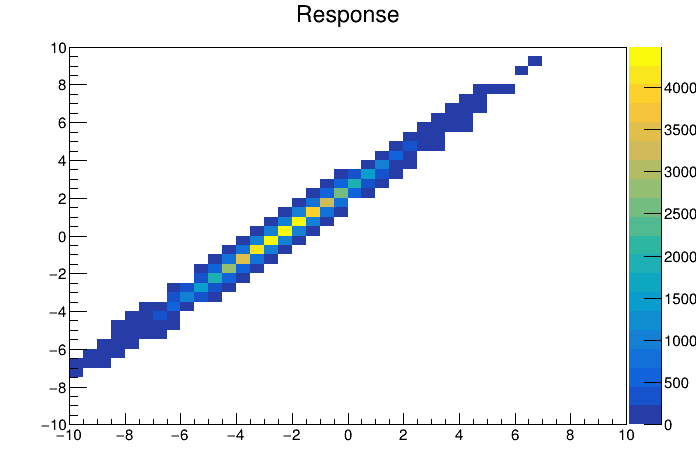
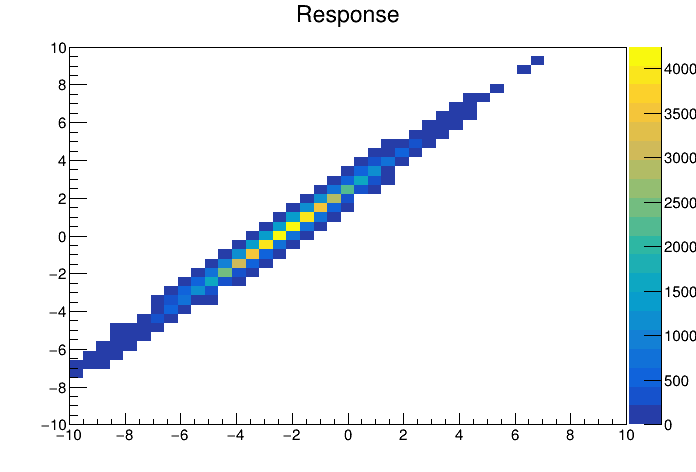
Added option for binning choice in generator.

diff --git a/studies/generator/generator.py b/studies/generator/generator.py
@@ -32,7 +32,7 @@ r.gROOT.SetBatch(True)
 
 def smear(xt):
     """
-    Applies a smearing effect to a given input value, xt.
+    Applies a Gaussian smearing effect to a given input value, xt.
 
     Args:
         xt (float): The input value to apply the smearing to.
@@ -112,14 +112,15 @@ def main():
     INFO("Parameters:")
     print("- Distribution: {}".format(args.distr))
     print("- Samples: {}".format(args.samples))
+    print("- Binning: ({}, {}, {})".format(args.bins, args.min_bin, args.max_bin))
     print()
 
     # Initialize histograms
-    f0 = r.TH1F("f0", "f0", 40, -10, 10)  # truth
-    g0 = r.TH1F("g0", "g0", 40, -10, 10)  # measured
+    f0 = r.TH1F("f0", "f0", args.bins, args.min_bin, args.max_bin)  # truth
+    g0 = r.TH1F("g0", "g0", args.bins, args.min_bin, args.max_bin)  # measured
 
     # Generate the response matrix
-    response = r.RooUnfoldResponse(40, -10.0, 10.0)
+    response = r.RooUnfoldResponse(args.bins, args.min_bin, args.max_bin)
 
     # Fill the inputs
     INFO("Filling the histograms...")
@@ -192,6 +193,27 @@ if __name__ == "__main__":
         default=100000,
         type=int,
         help="Number of samples to be generated.",
+    )
+    parser.add_argument(
+        "-M",
+        "--max_bin",
+        default=10,
+        type=int,
+        help="The maximum bin edge.",
+    )
+    parser.add_argument(
+        "-m",
+        "--min_bin",
+        default=-10,
+        type=int,
+        help="The minimum bin edge.",
+    )
+    parser.add_argument(
+        "-b",
+        "--bins",
+        default=40,
+        type=int,
+        help="The number of bins.",
     )
     args = parser.parse_args()
 
